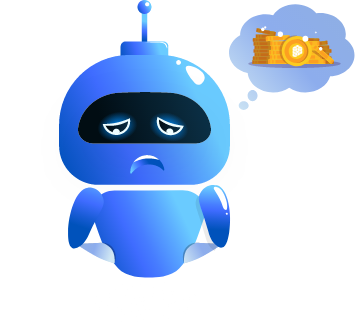
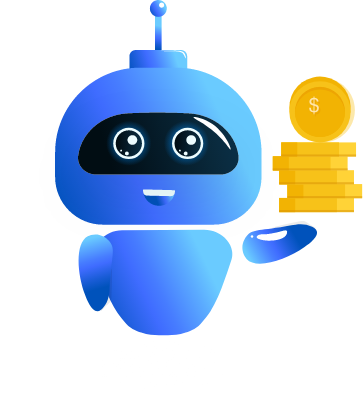
feat(gpos start): updated the gpos start page
made changes according to recent GUI spec changes

WAL-249

diff --git a/src/components/Modal/GPOSWizard/Start/Start.jsx b/src/components/Modal/GPOSWizard/Start/Start.jsx
@@ -2,6 +2,27 @@ import React from 'react';
 import Translate from 'react-translate-component';
 
 class GposWizardStart extends React.Component {
+  // TODO: on power up/down, use redux state to track successful transactions and reflect the changes here. Store as array of transactions completed.
+  // renderCompleted = (action) => {
+  renderCompleted = () => {
+    // TODO: actions array from state storing the compelted actions.
+    // const isComplete = (action) => {
+    //   let index = actions.indexOf(action);
+
+    //   if (index !== -1) {
+    //     console.log(`${action} is complete @ ${index}`);
+    //   }
+    // };
+
+    return(
+      <Translate
+        component='span'
+        className='gpos-modal__card-txt completed'
+        content='gpos.wizard.completed'
+      />
+    );
+  }
+
   render() {
     let {closeModal, proceedOrRegress} = this.props;
 
@@ -67,6 +88,7 @@ class GposWizardStart extends React.Component {
               className='gpos-modal__card-txt'
               content='gpos.wizard.start.right.2'
             />
+            {this.renderCompleted()}
           </div>
           <div className='gpos-modal__card' onClick={ () => proceedOrRegress(2) }>
             <img className='gpos-modal__card-3' src='images/gpos/vote.png' alt='step3'/>

diff --git a/src/components/Modal/GPOSWizard/GPOSWizard.scss b/src/components/Modal/GPOSWizard/GPOSWizard.scss
@@ -487,17 +487,26 @@ sm: 1275px);
       width: 270px;
       margin-left: 240px;
       font-size: $f-31;
+
+      &.completed {
+        transform: translateY(20px);
+        width: auto;
+        padding: 3px;
+        border-radius: 5px;
+        font-size: $f-15;
+        background: rgb(9, 9, 9);
+      }
     }
 
     // Images -1, -2, -3
     &-1 {
       @include respond-to(mac) {
-        height: 135px;
+        height: 137px;
       }
 
-      height: 161px;
-      margin-top: 9.75px;
-      margin-left: 5px;
+      height: 163px;
+      margin-top: 17px;
+      margin-left: 16px;
     }
 
     &-2 {

diff --git a/src/assets/stylesheets/_variables.scss b/src/assets/stylesheets/_variables.scss
@@ -15,6 +15,7 @@ $f-21: 21px;
 $f-19: 19px;
 $f-18: 18px;
 $f-16: 16px;
+$f-15: 15px;
 
 // PADDING
 $p-gpos-box-inner: 0 15px 30px;
